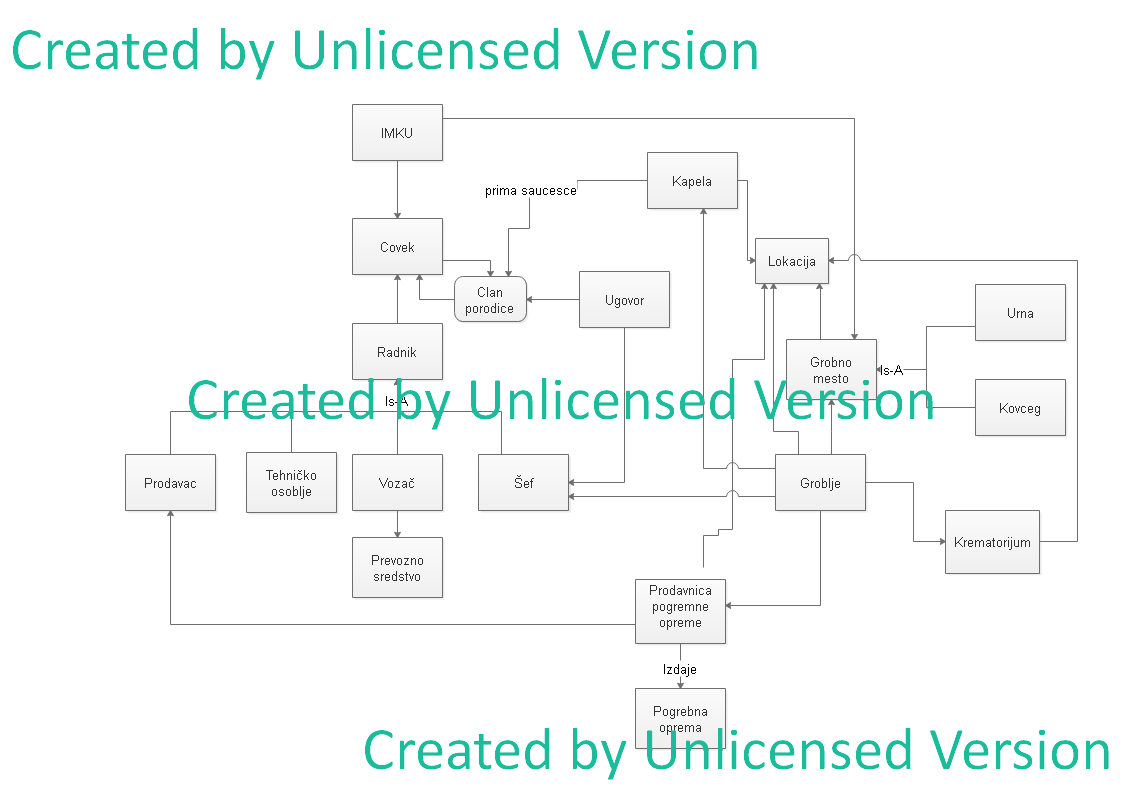
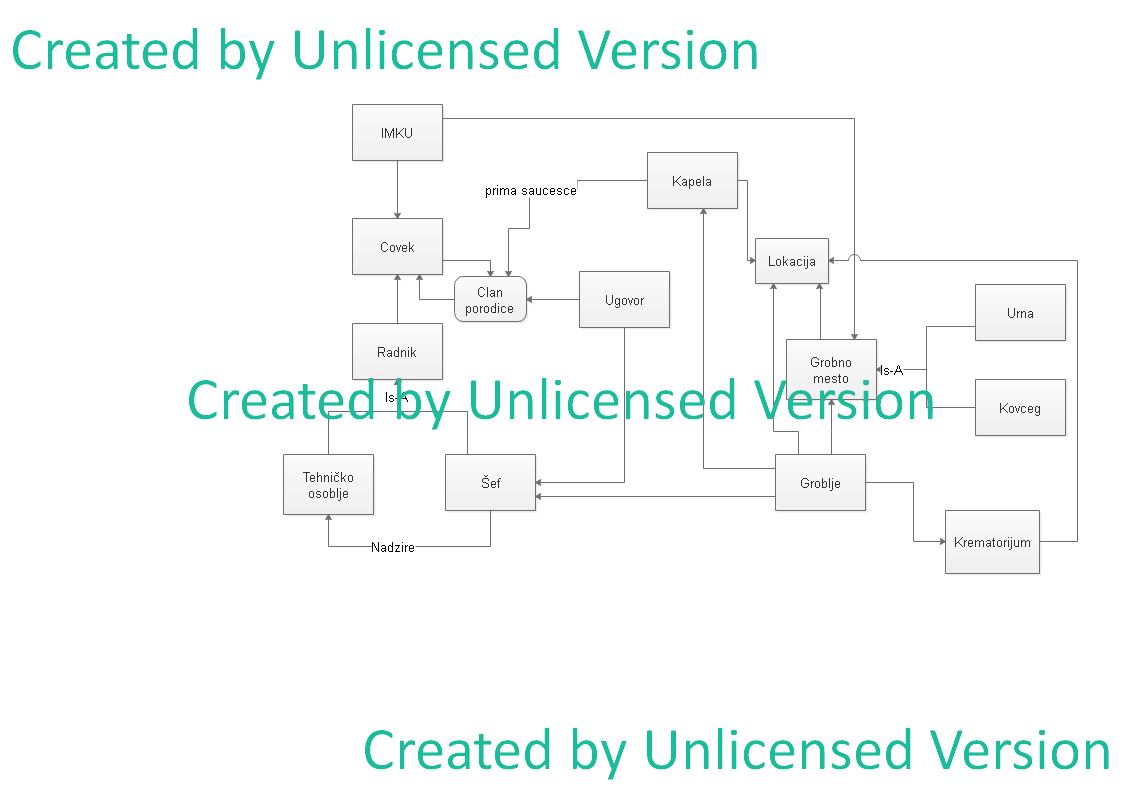
Napisana specifikacija i napravljen uproscen er diagram

diff --git a/doc/specifikacija.md b/doc/specifikacija.md
@@ -1,4 +1,21 @@
 # Specifikacija - Groblje
 
 Ova specifikacija sadrži određene elemente za kreiranje baze podataka
-groblja. Navedeni su TE, TP, kardinaliteti i obeležja pomoću kojih je opisana struktura groblja (kapela, krematorijum, prodavnica pogrebne opreme, grobna mesta - Urna, Sanduk), zaposlenih (šef groblja, prodavac pogrebne opreme, tehničko osoblje, Vozač) i odnosa člana porodice sa grobljem (prave ugovor sa šefom, primaju saučešće u kapeli)
+groblja. Navedeni su TE, TP, kardinaliteti i obeležja pomoću kojih je opisana struktura groblja (kapela, krematorijum, grobna mesta - Urna, Sanduk), zaposlenih (šef groblja, tehničko osoblje) i odnosa člana porodice sa grobljem (prave ugovor sa šefom, primaju saučešće u kapeli)
+
+Tekstualni opis ER konceptualne šeme baze podataka:
+
+1. Groblje ima najmanje jedan krematorijum. Krematorijum pripada tačno jednom groblju.
+1. Groblje ima najmanje jednu kapelu. Kapela pripada tačno jednom groblju.
+1. Groblje sadrži nijedno ili više grobnih mesta. Jedno grobno mesto pripada tačno jednom groblju.
+1. Grobno mesto može biti kovčeg ili urna.
+1. U kapeli jedan ili više članova porodice primaju saučešće. Članovi porodice primaju saučešće u tačno jednoj kapeli.
+1. Čovek je član jedne ili više porodica. Porodica je sadržana od jednog ili više čoveka.
+1. IMKU (Izvod iz matične knjige umrlih) se odnosi na tačno jednog čoveka. Jedan čovek može da ima nijedan (ako je živ) ili jedan IMKU.
+1. Radnik je tačno jedan čovek. Jedan čovek može, a ne mora da bude radnik.
+1. Radnik može da bude Tehničko osoblje, ili Šef.
+1. Groblje ima tačno jednog šefa. Jedan šef groblja može da bude šef jednog ili više groblja.
+1. Šef groblja nadzire jednog ili više radnika tehničkog osoblja. Radnik tehničkog osoblja ima tačno jednog šefa.
+1. Član porodice pravi ugovor sa tačno jednim šefom. Jedan šef groblja pravi ugovor sa jednim ili više članova porodice.
+1. U ugovoru član porodice bira vrstu sahrane koja može biti: ukopavanje ili kremiranje (`dom(VRSTA_SAHRANE)={ukopavanje, kremiranje}`)
+1. Kapela/Groblje/Krematorijum/Grobno mesto sadrže tačno jednu lokaciju. Jedna lokacija može sadržati jednu ili nijednu Kapelu/Groblje/Krematorijum/Grobno mesto.
